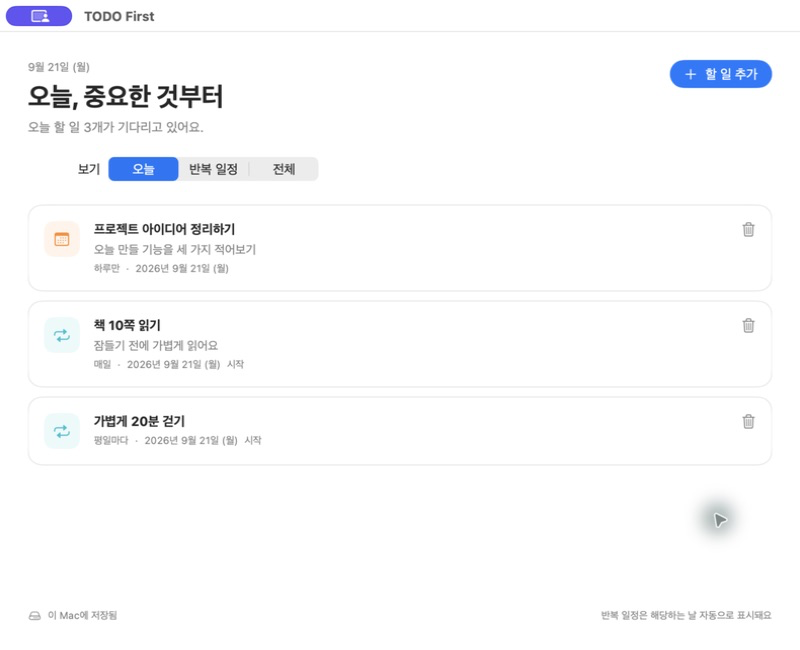
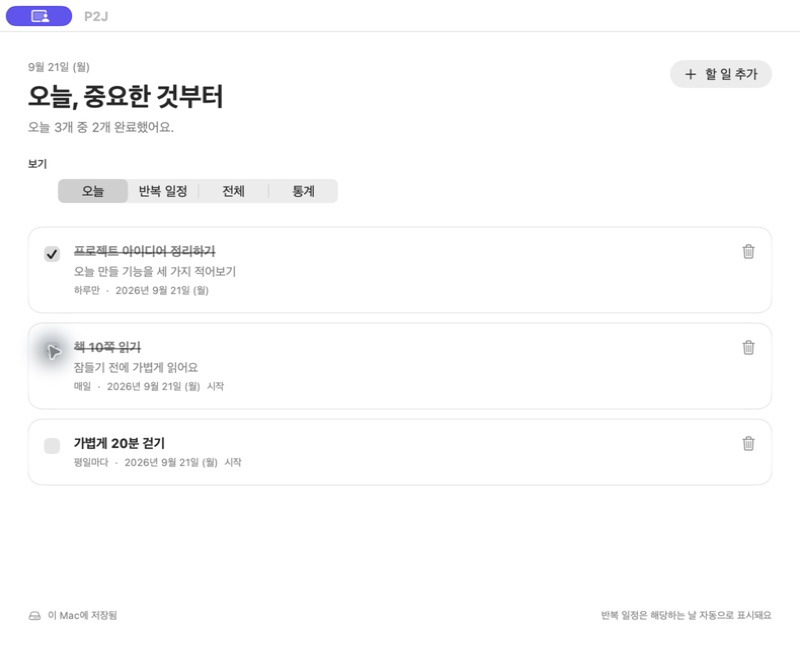
docs: introduce P2J and document completion statistics

diff --git a/README.md b/README.md
@@ -1,5 +1,5 @@
 <p align="center">
-  <img src="docs/images/banner.svg" alt="TODO First — 오늘 할 일, 중요한 것부터." width="100%">
+  <img src="docs/images/banner.svg" alt="P2J — 즉흥적인 하루를 계획 있는 하루로." width="100%">
 </p>
 
 <p align="center">
@@ -11,22 +11,22 @@
   <a href="#미리보기">미리보기</a> ·
   <a href="#시작하기">시작하기</a> ·
   <a href="#로드맵">로드맵</a> ·
-  <a href="https://github.com/cg-1119/todo-first/issues">피드백</a>
+  <a href="https://github.com/cg-1119/P2J/issues">피드백</a>
 </p>
 
 <p align="center">
   <code>macOS 14+</code> &nbsp; <code>Swift 6</code> &nbsp; <code>SwiftUI + WidgetKit</code> &nbsp; <code>개발 중</code>
 </p>
 
-> **아직 정식 출시 전입니다.** 앱에서 일회성·반복 할 일을 등록하고 로컬에 저장할 수 있습니다. 우선순위·완료 체크와 메뉴 막대·위젯의 데이터 연결은 개발 예정입니다. 설치용 배포 파일은 아직 제공하지 않습니다.
+> **아직 정식 출시 전입니다.** 앱에서 일회성·반복 할 일을 등록하고 로컬에 저장할 수 있습니다. 날짜별 완료 체크와 7일·30일 통계를 지원합니다. 우선순위와 메뉴 막대·위젯의 데이터 연결은 개발 예정입니다. 설치용 배포 파일은 아직 제공하지 않습니다.
 
 ## 오늘 무엇부터 할까요?
 
-해야 할 일을 모두 적어도, 무엇부터 시작할지 막막할 때가 있습니다. **TODO First**는 오늘 할 일과 우선순위를 한곳에 모아 다음 행동을 쉽게 고를 수 있도록 만드는 macOS 앱입니다.
+**P2J**는 MBTI의 P → J에서 착안한 이름입니다. 즉흥적인 하루에 작은 계획을 더하고, 하나씩 실행하도록 돕는 macOS TODO 앱입니다. 성격을 바꾸기보다 오늘의 할 일을 정리하고 끝내는 경험에 집중합니다.
 
 | 사용 공간 | 목표하는 경험 | 현재 상태 |
 | :--- | :--- | :--- |
-| **앱** | 오늘 할 일을 정리하고 중요한 순서대로 확인 | 등록·삭제·오늘/반복/전체 목록 구현 |
+| **앱** | 오늘 할 일을 정리하고 중요한 순서대로 확인 | 등록·삭제·날짜별 완료·통계 구현 |
 | **메뉴 막대** | 작업 중에도 목록을 빠르게 열고 완료 체크 | 팝오버 및 앱 열기·종료 구현 |
 | **위젯** | 데스크톱에서 중요한 할 일과 진행 현황 확인 | 소형·중형 준비 화면 구성 |
 
@@ -35,7 +35,7 @@
 ### 오늘의 화면
 
 <p align="center">
-  <img src="docs/images/app-preview.png" alt="TODO First 실제 실행 화면. 오늘 하루만 할 일, 매일 독서, 평일 걷기 일정이 표시된 목록." width="800">
+  <img src="docs/images/app-preview.png" alt="P2J 실제 실행 화면. 오늘 하루만 할 일, 매일 독서, 평일 걷기 일정이 표시된 목록." width="800">
 </p>
 
 <p align="center"><sub>2026-09-21 · 실제 앱에 예시 항목을 등록한 화면</sub></p>
@@ -64,7 +64,25 @@
 - 목록의 휴지통 버튼으로 삭제할 수 있습니다. 반복 항목은 해당 반복 일정 전체가 삭제됩니다.
 - 데이터는 이 Mac에 저장되어 재실행 후에도 유지됩니다. 다른 기기와 동기화되지는 않습니다.
 
-반복 일정은 날짜에 맞춰 목록에 표시하는 기능입니다. 알림 전송이나 완료 기록은 아직 지원하지 않습니다.
+## 오늘 끝낸 일 체크하기
+
+목록 왼쪽 체크박스로 **오늘 완료**를 표시하거나 취소하세요. 완료하면 제목에 취소선이 표시되고 상단 완료 수가 즉시 갱신됩니다. 오늘에 해당하지 않는 일정은 체크할 수 없습니다.
+
+반복 일정의 완료 상태는 날짜별로 보관합니다. 오늘 체크해도 다음 반복일에는 다시 미완료로 표시됩니다. 알림 전송은 아직 지원하지 않습니다.
+
+## 꾸준함을 통계로 보기
+
+**보기 → 통계**에서 오늘의 달성률과 최근 **7일 / 30일** 기록을 확인하세요.
+
+- 기간별 완료한 일·계획한 일·완료율
+- 날짜별 완료/미완료 막대 차트와 일별 기록
+- 삭제한 일정의 과거 기록 보존
+
+<p align="center">
+  <img src="docs/images/statistics.png" alt="P2J 통계 화면. 오늘의 완료율과 최근 7일의 완료 및 계획 수 차트." width="800">
+</p>
+
+통계는 오늘을 포함하며, 하루에 할 일 하나를 1건으로 계산합니다. 반복 일정은 해당 날짜마다 1건입니다. 삭제일부터는 새 계획에 포함하지 않지만, 삭제 당일 이미 완료한 기록과 이전 기록은 유지합니다. 시작일을 과거로 등록하면 과거 계획 수에도 반영됩니다.
 
 ## 시작하기
 
@@ -81,24 +99,24 @@
 ### 소스에서 실행
 
 ```sh
-git clone https://github.com/cg-1119/todo-first.git
-cd todo-first
-open TODOFirst.xcodeproj
+git clone https://github.com/cg-1119/P2J.git
+cd P2J
+open P2J.xcodeproj
 ```
 
-1. Xcode에서 **TODOFirst** 스킴과 **My Mac**을 선택합니다.
+1. Xcode에서 **P2J** 스킴과 **My Mac**을 선택합니다.
 2. 개발 서명을 설정합니다. 방법은 [개발 가이드](docs/DEVELOPMENT.md#개발-서명)를 참고하세요.
 3. **⌘R**로 실행합니다. 앱 창과 메뉴 막대의 체크리스트 아이콘이 나타납니다.
 
-서명된 앱을 실행한 뒤 macOS의 **위젯 편집**에서 **TODO First**를 찾아 추가할 수 있습니다. 위젯의 시스템 등록과 실제 표시는 별도 검증이 필요하며, 현재 위젯에는 준비 화면이 표시됩니다.
+서명된 앱을 실행한 뒤 macOS의 **위젯 편집**에서 **P2J**를 찾아 추가할 수 있습니다. 위젯의 시스템 등록과 실제 표시는 별도 검증이 필요하며, 현재 위젯에는 준비 화면이 표시됩니다.
 
 <details>
 <summary><strong>서명 없이 빌드만 확인하려면</strong></summary>
 
 ```sh
 xcodebuild \
-  -project TODOFirst.xcodeproj \
-  -scheme TODOFirst \
+  -project P2J.xcodeproj \
+  -scheme P2J \
   -configuration Debug \
   -destination 'generic/platform=macOS' \
   -derivedDataPath build \
@@ -120,7 +138,8 @@ xcodebuild \
 - [x] 오늘·반복 일정·전체 목록
 - [ ] 등록한 할 일 수정
 - [ ] 우선순위 설정 및 정렬
-- [ ] 완료 체크와 오늘의 진행 현황
+- [x] 날짜별 완료 체크와 오늘의 진행 현황
+- [x] 최근 7일·30일 통계 및 일별 차트
 - [ ] 메뉴 막대에서 실제 목록 확인 및 완료 처리
 - [ ] 앱·위젯 간 데이터 공유
 - [ ] 위젯에 중요한 할 일과 완료 현황 표시
@@ -137,24 +156,25 @@ TODOFirst/
 ├── App/                  앱 진입점
 └── Features/
     ├── Today/            오늘의 할 일 화면
-    └── MenuBar/          메뉴 막대 빠른 보기
+    ├── MenuBar/          메뉴 막대 빠른 보기
+    └── Statistics/       완료 통계와 차트
 TODOFirstWidgets/         WidgetKit 확장
 Shared/Tasks/             일정 모델·로컬 저장·상태 관리
 Tests/                    핵심 로직 테스트
 Package.swift             핵심 로직 테스트용 Swift 패키지
 Configuration/            공통 빌드 설정과 개인 서명 예시
 docs/                     개발 안내와 실제 화면 이미지
-TODOFirst.xcodeproj/       Xcode 프로젝트와 공유 스킴
+P2J.xcodeproj/       Xcode 프로젝트와 공유 스킴
 ```
 
 프로젝트 구성과 각 기능은 독립된 커밋으로 관리합니다. 실행·서명·검증 방법은 [개발 가이드](docs/DEVELOPMENT.md), 이미지 갱신 기준은 [스크린샷 안내](docs/SCREENSHOTS.md)에 정리되어 있습니다.
 
 ## 함께 다듬기
 
-불편한 점이나 아이디어는 [Issues](https://github.com/cg-1119/todo-first/issues)에 남겨주세요. 버그 제보에는 macOS 버전, 재현 단계, 기대한 동작을 함께 적어주시면 도움이 됩니다.
+불편한 점이나 아이디어는 [Issues](https://github.com/cg-1119/P2J/issues)에 남겨주세요. 버그 제보에는 macOS 버전, 재현 단계, 기대한 동작을 함께 적어주시면 도움이 됩니다.
 
 라이선스는 아직 정하지 않았습니다. 배포 전에 이용 및 재배포 조건을 명시할 예정입니다.
 
 ---
 
-<p align="center"><strong>TODO First</strong><br><sub>오늘 할 일, 중요한 것부터.</sub></p>
+<p align="center"><strong>P2J</strong><br><sub>즉흥적인 하루를 계획 있는 하루로.</sub></p>

diff --git a/docs/DEVELOPMENT.md b/docs/DEVELOPMENT.md
@@ -6,7 +6,7 @@
 
 macOS 14 이상과 Swift 6을 지원하는 Xcode 16 이상을 사용합니다. 현재 빌드 검증 환경은 Xcode 26.5입니다. 외부 라이브러리나 프로젝트 생성 도구 설치는 필요하지 않습니다.
 
-`TODOFirst.xcodeproj`를 열고 `TODOFirst` 스킴 및 `My Mac`을 선택합니다. 앱을 빌드하면 의존성으로 연결된 `TODOFirstWidgets` 확장도 함께 빌드되어 앱에 포함됩니다.
+`P2J.xcodeproj`를 열고 `P2J` 스킴 및 `My Mac`을 선택합니다. 앱을 빌드하면 의존성으로 연결된 `TODOFirstWidgets` 확장도 함께 빌드되어 앱에 포함됩니다.
 
 ## 개발 서명
 
@@ -26,8 +26,8 @@ cp Configuration/Local.xcconfig.example Configuration/Local.xcconfig
 
 ```sh
 xcodebuild \
-  -project TODOFirst.xcodeproj \
-  -scheme TODOFirst \
+  -project P2J.xcodeproj \
+  -scheme P2J \
   -configuration Debug \
   -destination 'generic/platform=macOS' \
   -derivedDataPath build \
@@ -45,7 +45,7 @@ swift test
 
 외부 의존성 없는 Swift 패키지로 일정 모델과 저장소를 검사합니다. Xcode 앱은 같은 소스를 직접 빌드하므로 별도 패키지 연결은 필요하지 않습니다.
 
-10개 테스트가 일회성·매일·평일·매주 일정, 시간대 이동, 저장·재로딩, 삭제, 빈 제목 차단, 손상 파일 보존, 실제 파일 쓰기 실패 시 상태 보존을 검증합니다.
+17개 테스트가 일회성·매일·평일·매주 일정, 시간대 이동, 저장·재로딩, 삭제, 빈 제목 차단, 손상 파일 보존, 실제 파일 쓰기 실패 시 상태 보존을 검증합니다. 날짜별 완료·취소, 구버전 파일 호환, 통계 합계·기간·삭제 이력 보존도 검사합니다.
 
 ## 현재 데이터 동작
 
@@ -56,7 +56,10 @@ swift test
 - 날짜별 목록은 화면에서 30초 간격으로 다시 계산합니다.
 - 제목은 공백만 입력할 수 없으며 120자, 메모는 2,000자까지 허용합니다.
 - 불러오기 실패 시 변경을 막아 기존 파일을 보존하고 오류를 표시합니다. 저장 실패 시 목록을 먼저 변경하지 않으며 등록 폼도 닫지 않습니다.
-- 반복 항목 삭제는 일정 전체에 적용됩니다. 개별 날짜 건너뛰기나 완료 이력은 아직 없습니다.
+- 완료 날짜를 항목별로 저장하며, 반복 일정은 다음 날 독립적으로 체크할 수 있습니다.
+- 삭제는 일정 보관 처리로 구현합니다. 삭제일부터 새로운 발생을 중단하고 과거 통계와 완료 기록은 보존합니다. 복원 UI는 아직 없습니다.
+- 저장 버전은 2이며 버전 1 데이터를 읽을 때 완료 기록을 빈 목록으로 보완합니다.
+- 개별 날짜 건너뛰기 기능은 아직 없습니다.
 
 메뉴 막대와 위젯에는 아직 실제 데이터를 연결하지 않았습니다. 공유 저장소로 전환할 때 기존 로컬 데이터의 마이그레이션을 함께 구현해야 합니다.
 
@@ -64,7 +67,7 @@ swift test
 
 1. 개발 서명을 설정하고 앱을 실행합니다.
 2. macOS의 **위젯 편집**을 엽니다.
-3. **TODO First**를 찾아 소형 또는 중형 위젯을 추가합니다.
+3. **P2J**를 찾아 소형 또는 중형 위젯을 추가합니다.
 4. 준비 화면이 표시되는지 확인합니다.
 
 실제 등록과 표시는 아직 검증되지 않았습니다. 위젯이 목록에 나타나지 않으면 먼저 앱·위젯의 서명 설정과 설치 상태를 확인합니다. 현재 위젯에는 실제 할 일 데이터가 연결되지 않았습니다.
@@ -83,3 +86,7 @@ swift test
 - 라이선스, 릴리스 노트, 설치 안내 작성
 
 현재 설치용 파일과 정식 릴리스는 제공하지 않습니다.
+
+## P2J 이름 변경과 데이터 호환
+
+GitHub 저장소와 로컬 폴더, Xcode 프로젝트·공유 스킴, 앱 제품 이름은 P2J입니다. 기존 등록 데이터를 유지하기 위해 내부 타깃 이름(TODOFirst), 번들 식별자와 Application Support/TODOFirst 저장 위치는 유지합니다. 빌드 명령과 Xcode 실행에서는 P2J 스킴을 선택합니다.

diff --git a/docs/SCREENSHOTS.md b/docs/SCREENSHOTS.md
@@ -7,7 +7,8 @@
 | 파일 | 내용 | 출처 |
 | --- | --- | --- |
 | `images/banner.svg` | README 소개 배너 | 문서용 벡터 그래픽. 앱 화면이 아닙니다. |
-| `images/app-preview.png` | 오늘의 목록: 일회성·매일·평일 예시 | 2026-09-21, 커밋 `1915913`의 실제 앱 창 캡처 |
+| `images/app-preview.png` | 오늘의 목록: 일회성·매일·평일 예시 | 2026-09-21, P2J 완료 체크가 적용된 실제 앱 창 캡처 |
+| `images/statistics.png` | 오늘의 달성률과 최근 7일 통계 | 2026-09-21, 실제 예시 항목 2개를 완료 처리한 화면 |
 | `images/task-registration.png` | 매일 반복 할 일 등록 폼 | 2026-09-21, 커밋 `1915913`의 실제 등록 화면 |
 
 앱 화면은 실제 실행 결과입니다. 캡처 당시 창에 표시된 시스템 UI도 그대로 포함되어 있습니다. 위젯은 실제 등록·표시 검증 후 캡처를 추가합니다.
@@ -21,4 +22,4 @@
 5. 캡처 날짜, 대상 커밋과 구현 상태를 이 문서에 기록합니다.
 6. GitHub에서 이미지 표시와 설명을 확인하고 관련 문서 커밋에 포함합니다.
 
-캡처용 예시 항목 3개를 직접 등록했으며 앱의 자동 생성 데이터는 아닙니다. 향후 추가할 화면은 우선순위 변경, 메뉴 막대 빠른 보기, 소형·중형 위젯입니다. 예상도나 목업을 추가한다면 실제 실행 화면과 구분해 표기합니다.
+캡처용 예시 항목 3개를 직접 등록했으며 앱의 자동 생성 데이터는 아닙니다. 완료 체크·통계 캡처에는 동일한 예시 3개 중 2개를 완료 처리했습니다. 향후 추가할 화면은 우선순위 변경, 메뉴 막대 빠른 보기, 소형·중형 위젯입니다. 예상도나 목업을 추가한다면 실제 실행 화면과 구분해 표기합니다.
